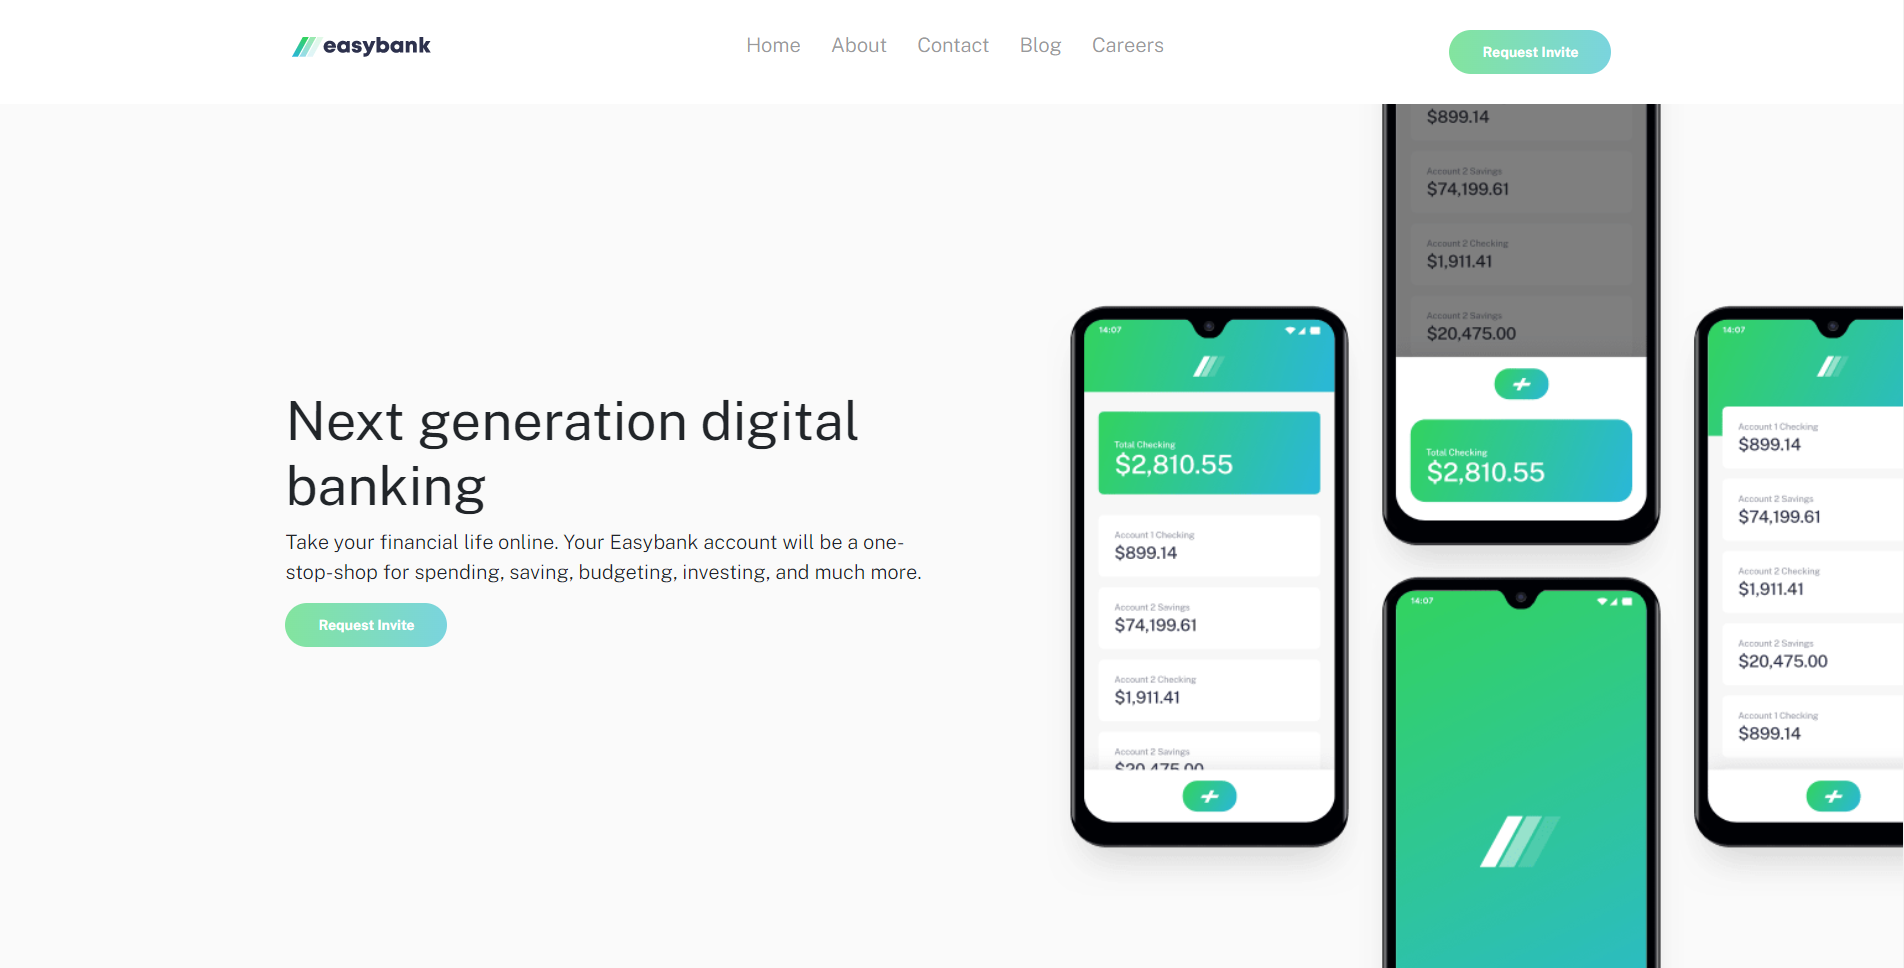
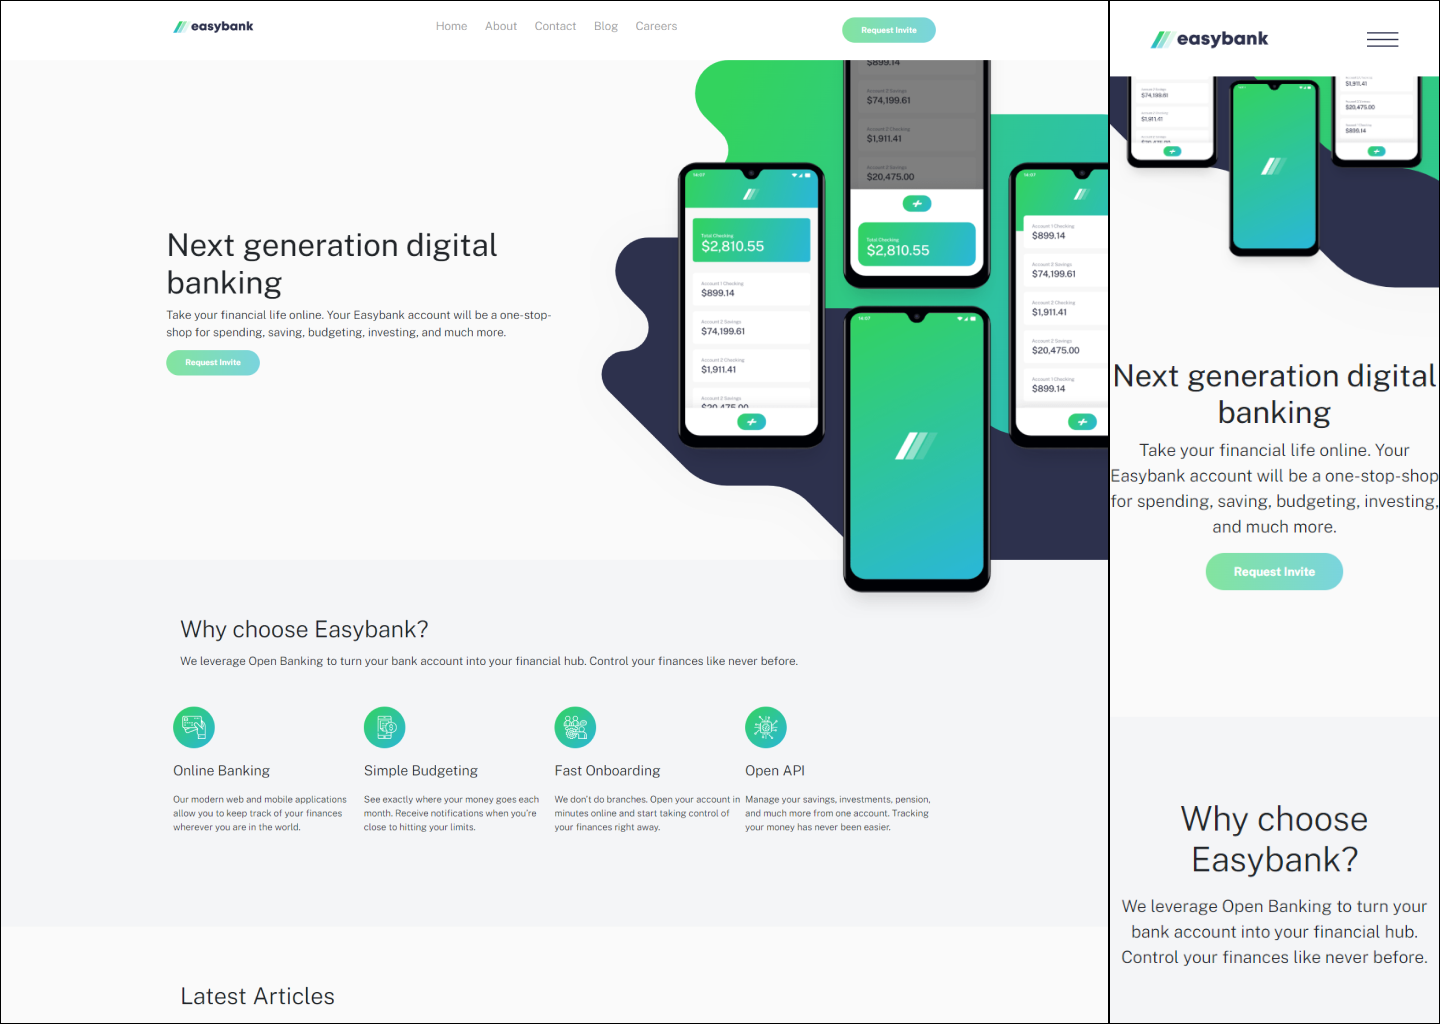
background header

diff --git a/src/style.css b/src/style.css
@@ -42,6 +42,9 @@
     width: 100%;
     height: auto !important;
     margin-top: -30% !important;
+    background-image: url("/images/bg-intro-mobile.svg");
+    background-repeat: no-repeat;
+    background-size: cover;
   }
 
   #mockup {
@@ -131,9 +134,10 @@ a:hover {
 
 .first {
   z-index: 1;
-}
-
-.first_block {
+  background-image: url("/images/bg-intro-desktop.svg");
+  background-repeat: no-repeat;
+  background-position-x: 100vh;
+  height: auto;
 }
 
 .left_part {
@@ -143,14 +147,15 @@ a:hover {
 .right_part {
   position: relative;
   overflow: hidden;
-  height: 120vh;
+  height: 110vh;
 }
 
 #mockup {
   position: absolute;
   top: -100px;
-  left: 10%;
-  height: 120vh;
+  left: 20%;
+  height: 110vh;
+  margin: 0;
 }
 
 .why {

diff --git a/index.html b/index.html
@@ -66,8 +66,8 @@
 
    </header>
    <main>
-      <div class="why my-5 py-5">
-         <div class="why_wrap container">
+      <div class="why b-5 pb-5">
+         <div class="why_wrap container py-5">
             <h3 class="pt-5">Why choose Easybank?</h3>
             <p class="pt-2">We leverage Open Banking to turn your bank account into your financial hub. Control
                your finances like never before.</p>

diff --git a/README.md b/README.md
@@ -1,6 +1,6 @@
 # Easybank landing page solution
 
-This is a solution to the [Easybank landing page challenge on Frontend Mentor].
+This is a solution to the Easybank landing page challenge.
 
 ## Table of contents
 
